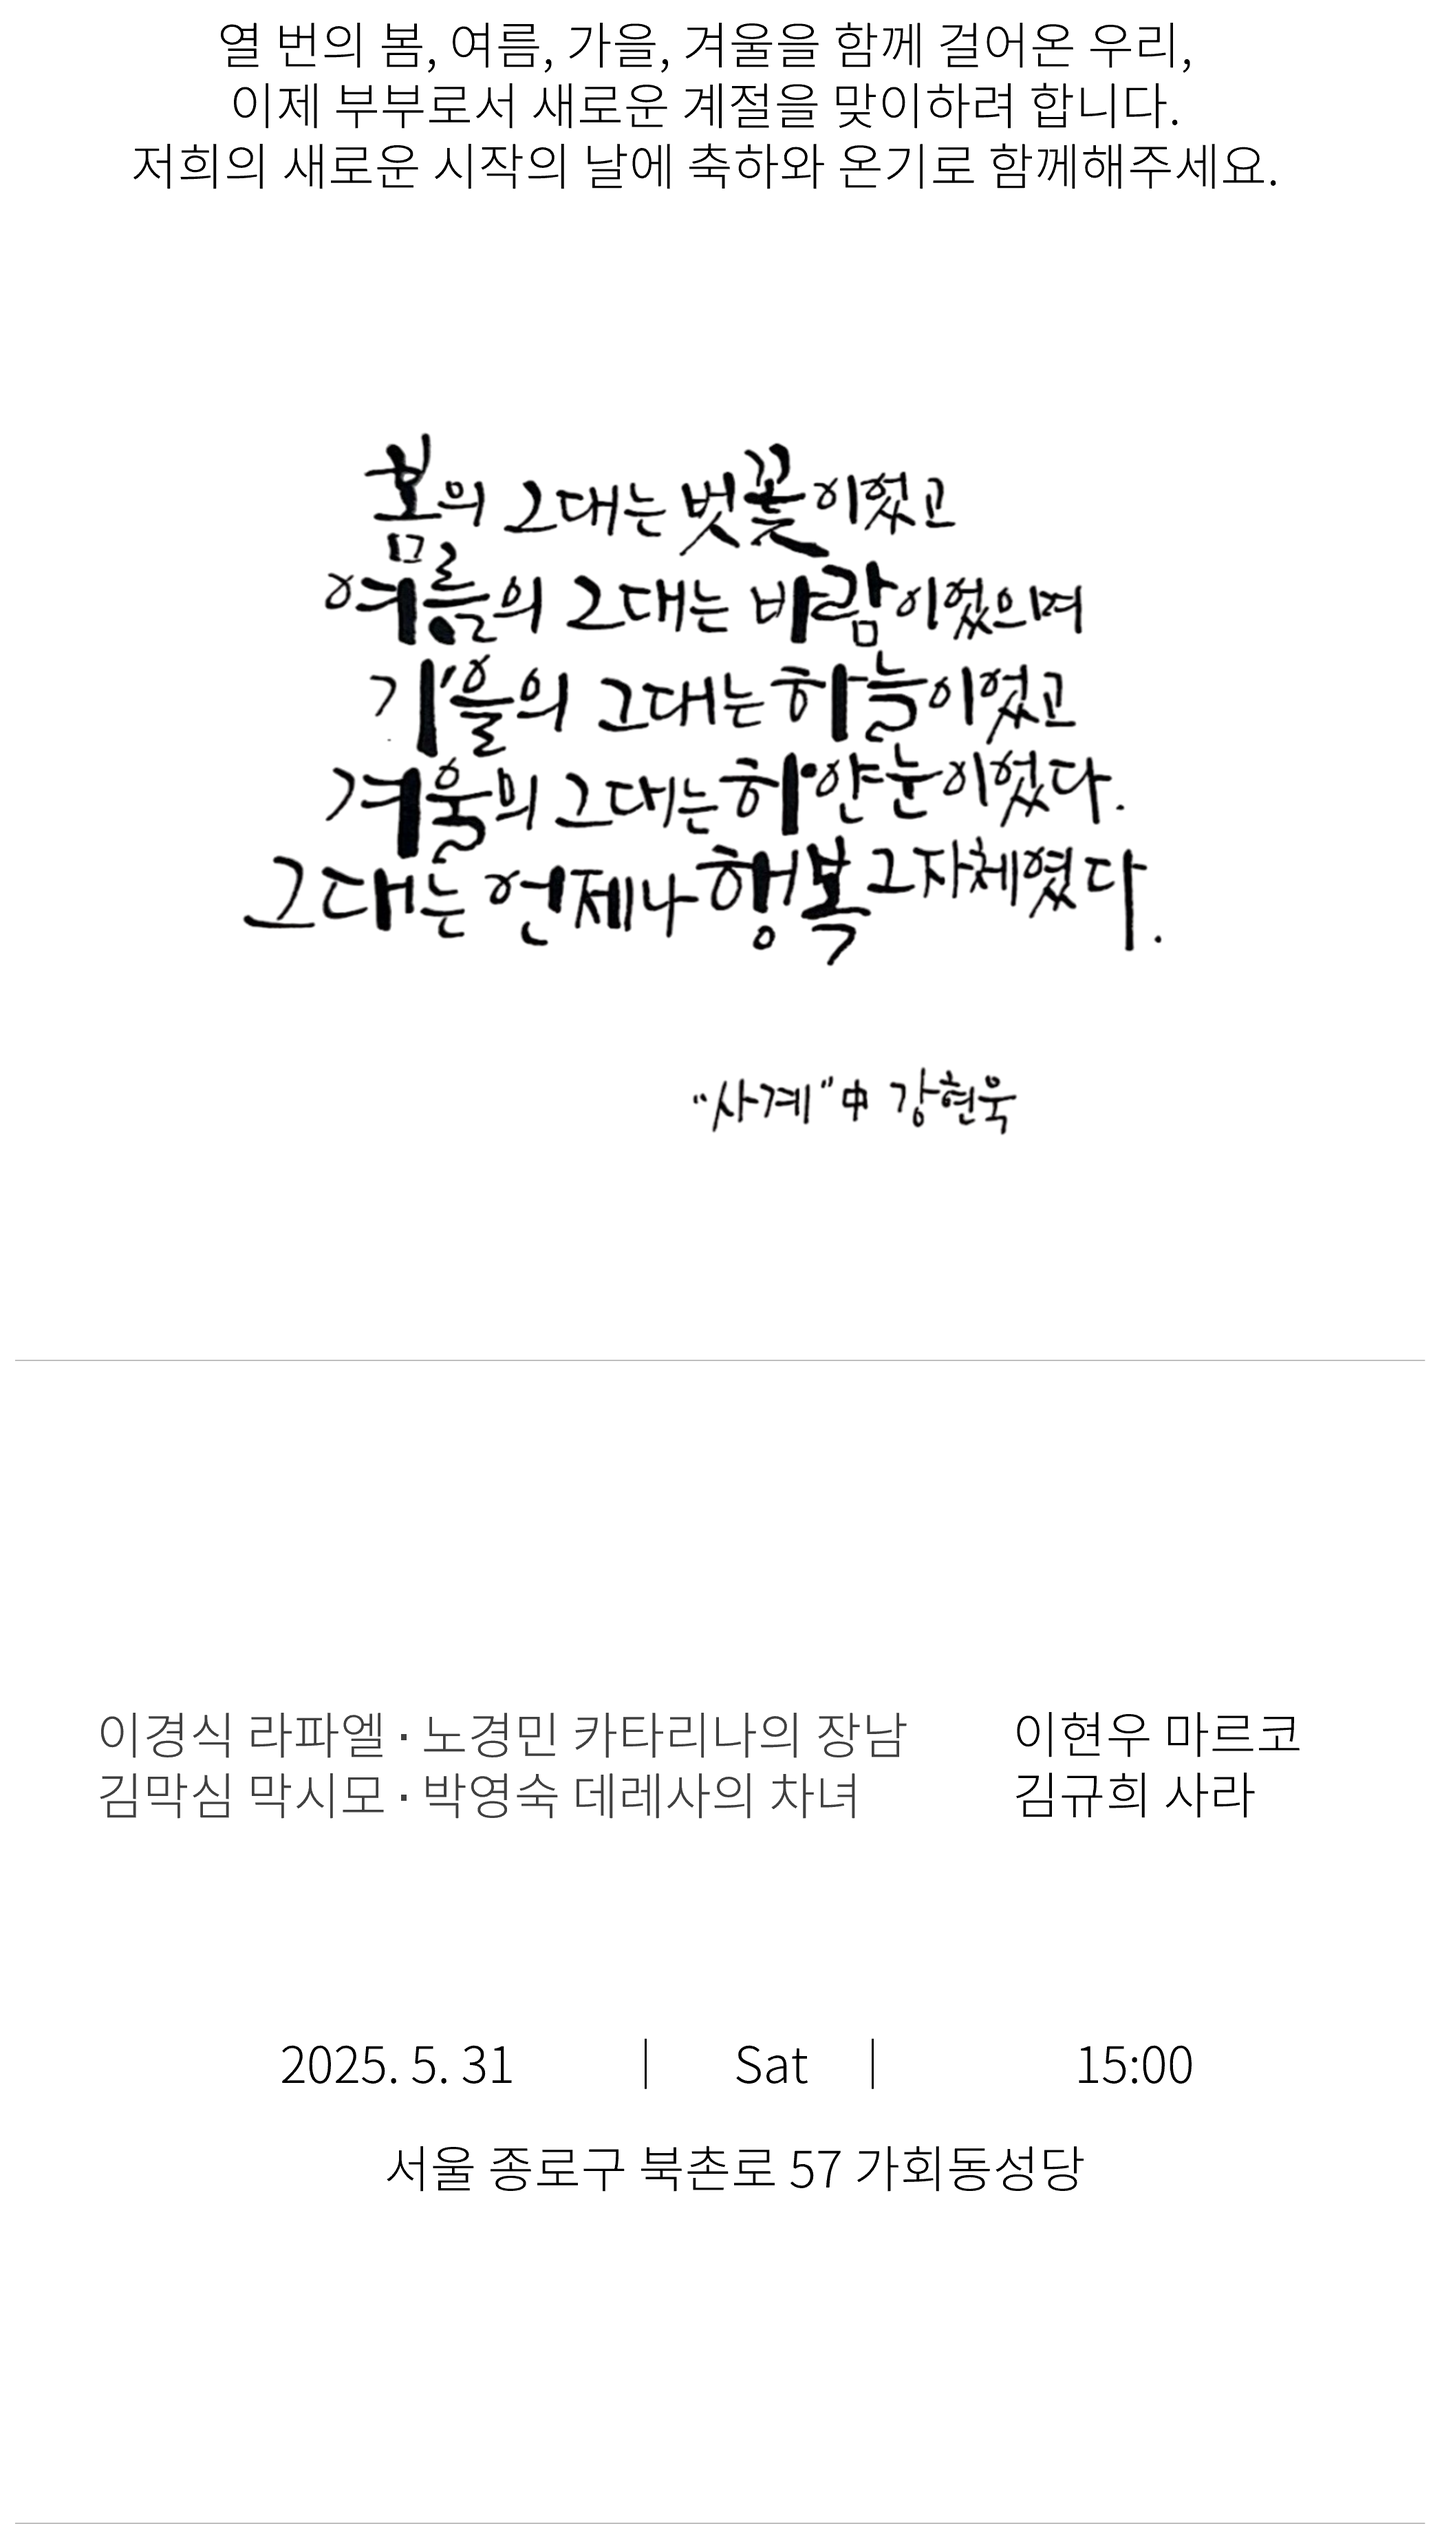
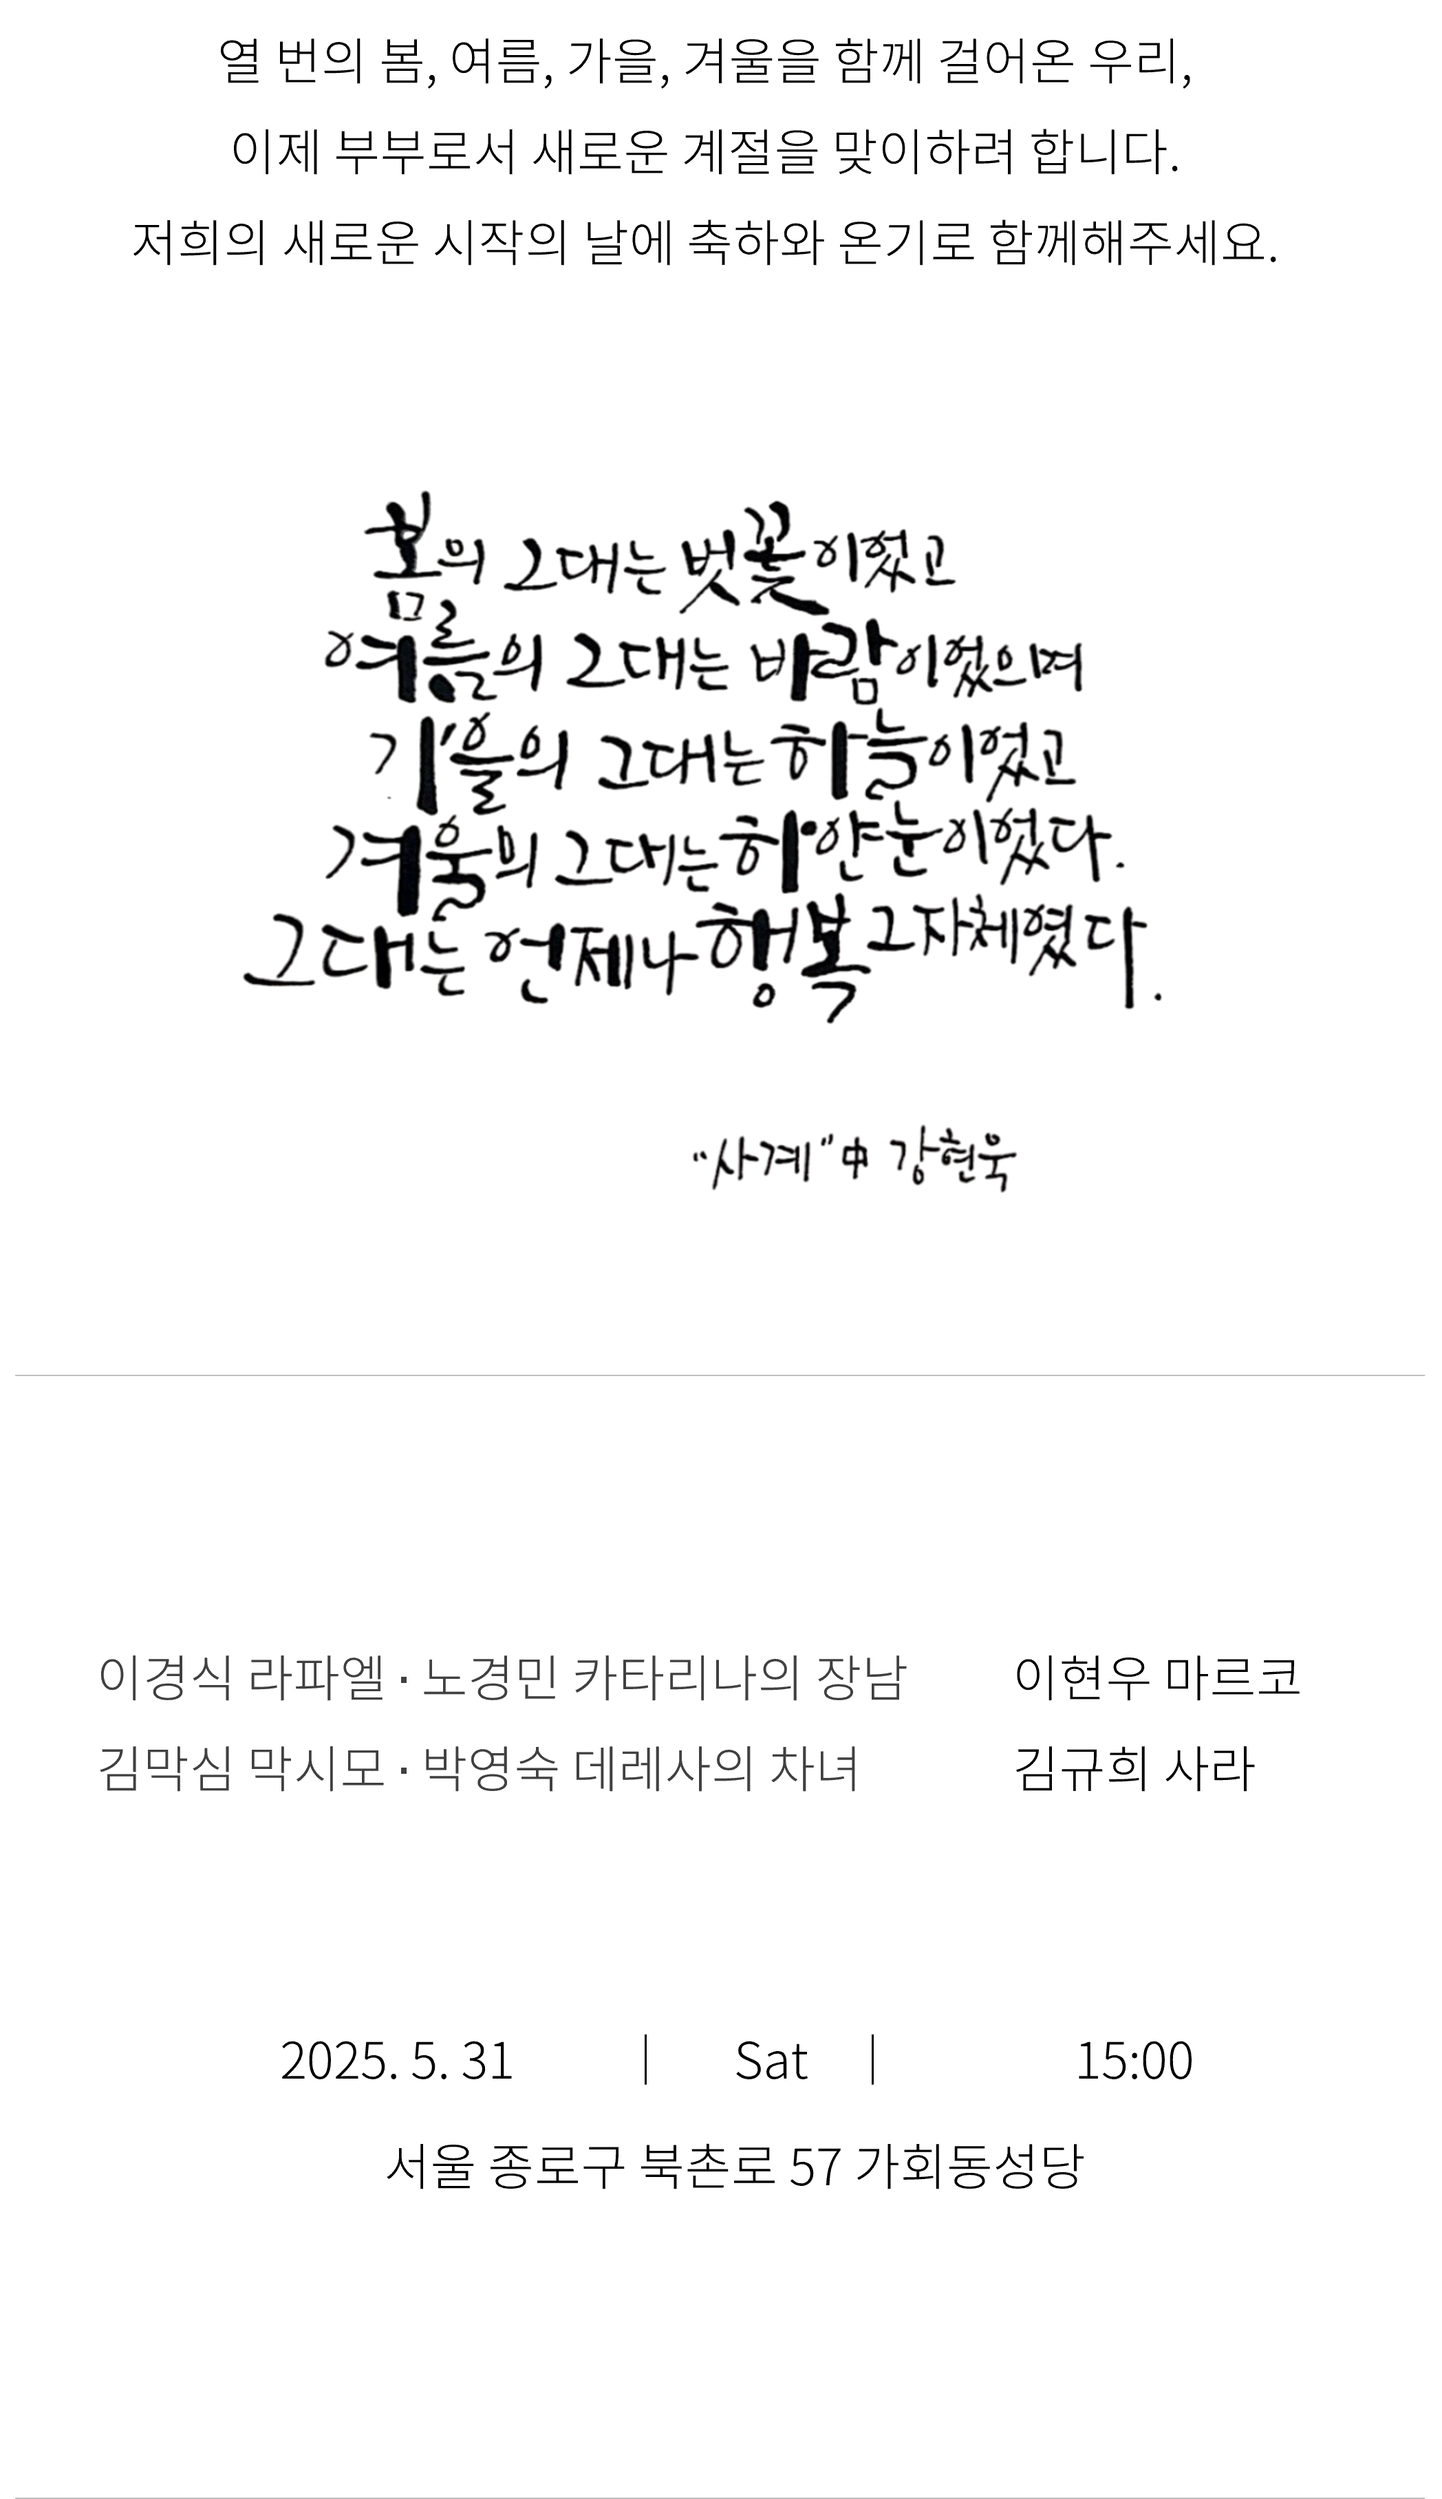
add files

diff --git a/index.html b/index.html
@@ -147,7 +147,7 @@ $(document).ready(function(){
 	<div class=" margin-t-3rem intro-1"  >
 		<ul>
 			<li class="wow fadeInLeft"  data-wow-delay="1.5s"><img src="images/photo_intro_01.jpg" alt="" class=""></li>
-			<li class="wow fadeInRight" data-wow-delay="2s"><img src="images/photo_intro_txt_01.png" alt="" style="left: -60px; width: 120%; height: auto;"></li>
+			<li class="wow fadeInRight" data-wow-delay="2s"><img src="images/photo_intro_txt_01.png" alt="" style="left: -55px; width: 120%; height: auto;"></li>
 		</ul>
 	</div>
 	<div class="wow fadeInDown margin-t-3rem intro-2">
@@ -292,7 +292,7 @@ $(document).ready(function(){
 		<p >가회동 성당</p>
 		<p class="margin-t-1rem lh-160 padding-1rem">서울 종로구 북촌로 57</br></p>
 	</div>
-	<div id="map" style="width:100%;height:300px;" class="wow fadeInDown map margin-t-3rem">
+	<div id="map" style="width:100%;height:500px;" class="wow fadeInDown map margin-t-3rem">
 		<img src="images/map.png" alt="결혼식장 위치" style="width: 100%; max-width: 600px;">
 	</div> 
 

diff --git a/css/style.css b/css/style.css
@@ -84,7 +84,7 @@ footer{padding:20px 0; border-top:1px solid #f1f1f1;  font-size:14px; color:#444
 .bus_detail ul li:nth-child(1){margin-left: 57px; text-indent: -70px; word-break: break-word;}
 .bus_detail ul li:nth-child(1) span {letter-spacing: 0.5px;}
 .bus_detail ul li:nth-child(2){margin-left: 65px; word-break: break-word;}
-.bus_detail ul li:nth-child(3){margin-left: 57px; text-indent: -57px; margin-top: 1rem; word-break: break-word;}
+.bus_detail ul li:nth-child(3){margin-left: 65px; text-indent: -57px; margin-top: 1rem; word-break: break-word;}
 .bus_detail ul li:nth-child(3) span {letter-spacing: 0.5px;}
 .bus_detail ul li:nth-child(4){margin-left: 65px; word-break: break-word;}
 .bus_detail ul li:nth-child(5){margin-left: 65px; word-break: break-word;}
